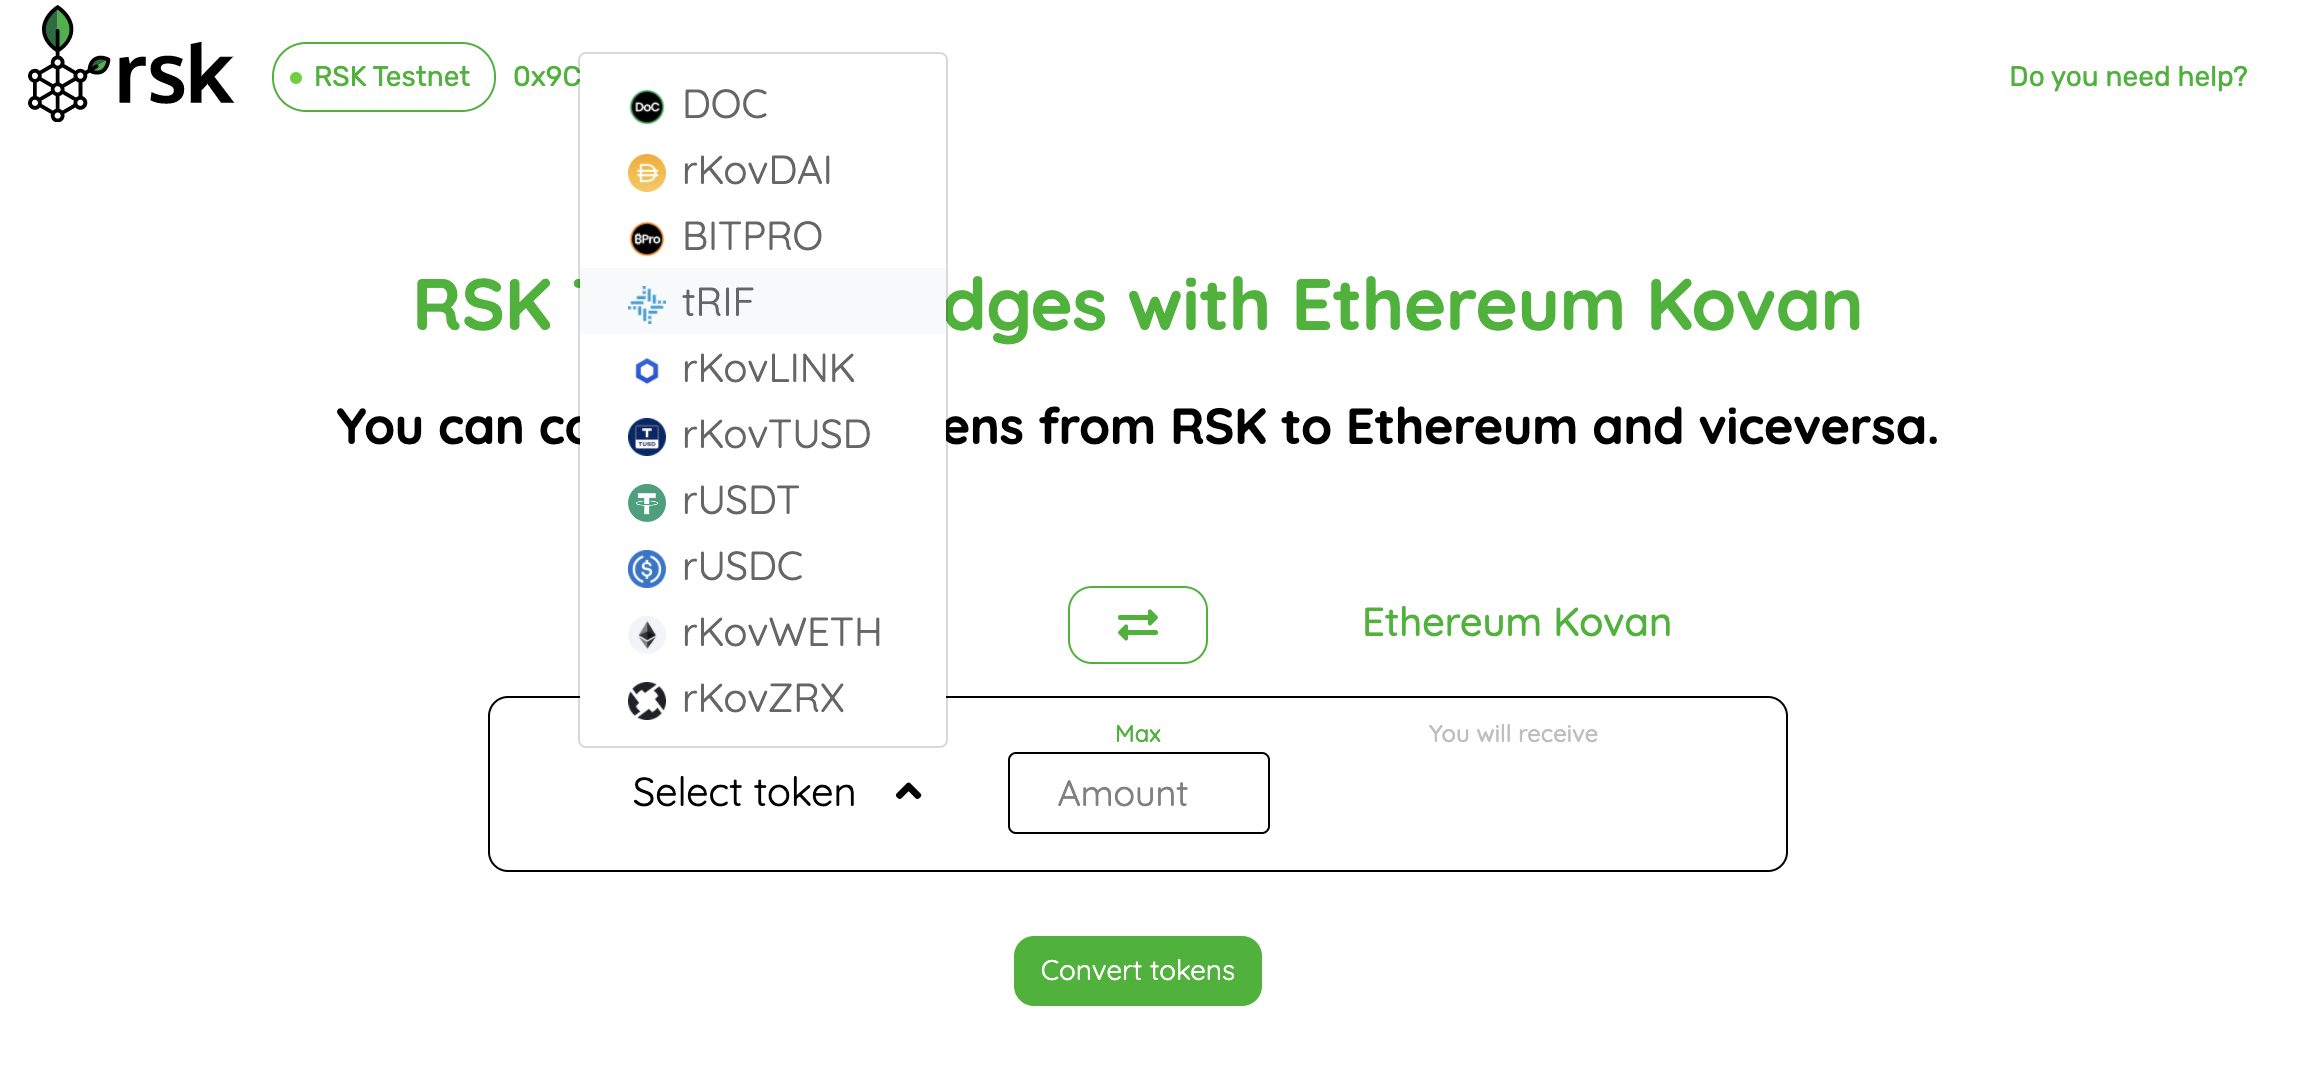
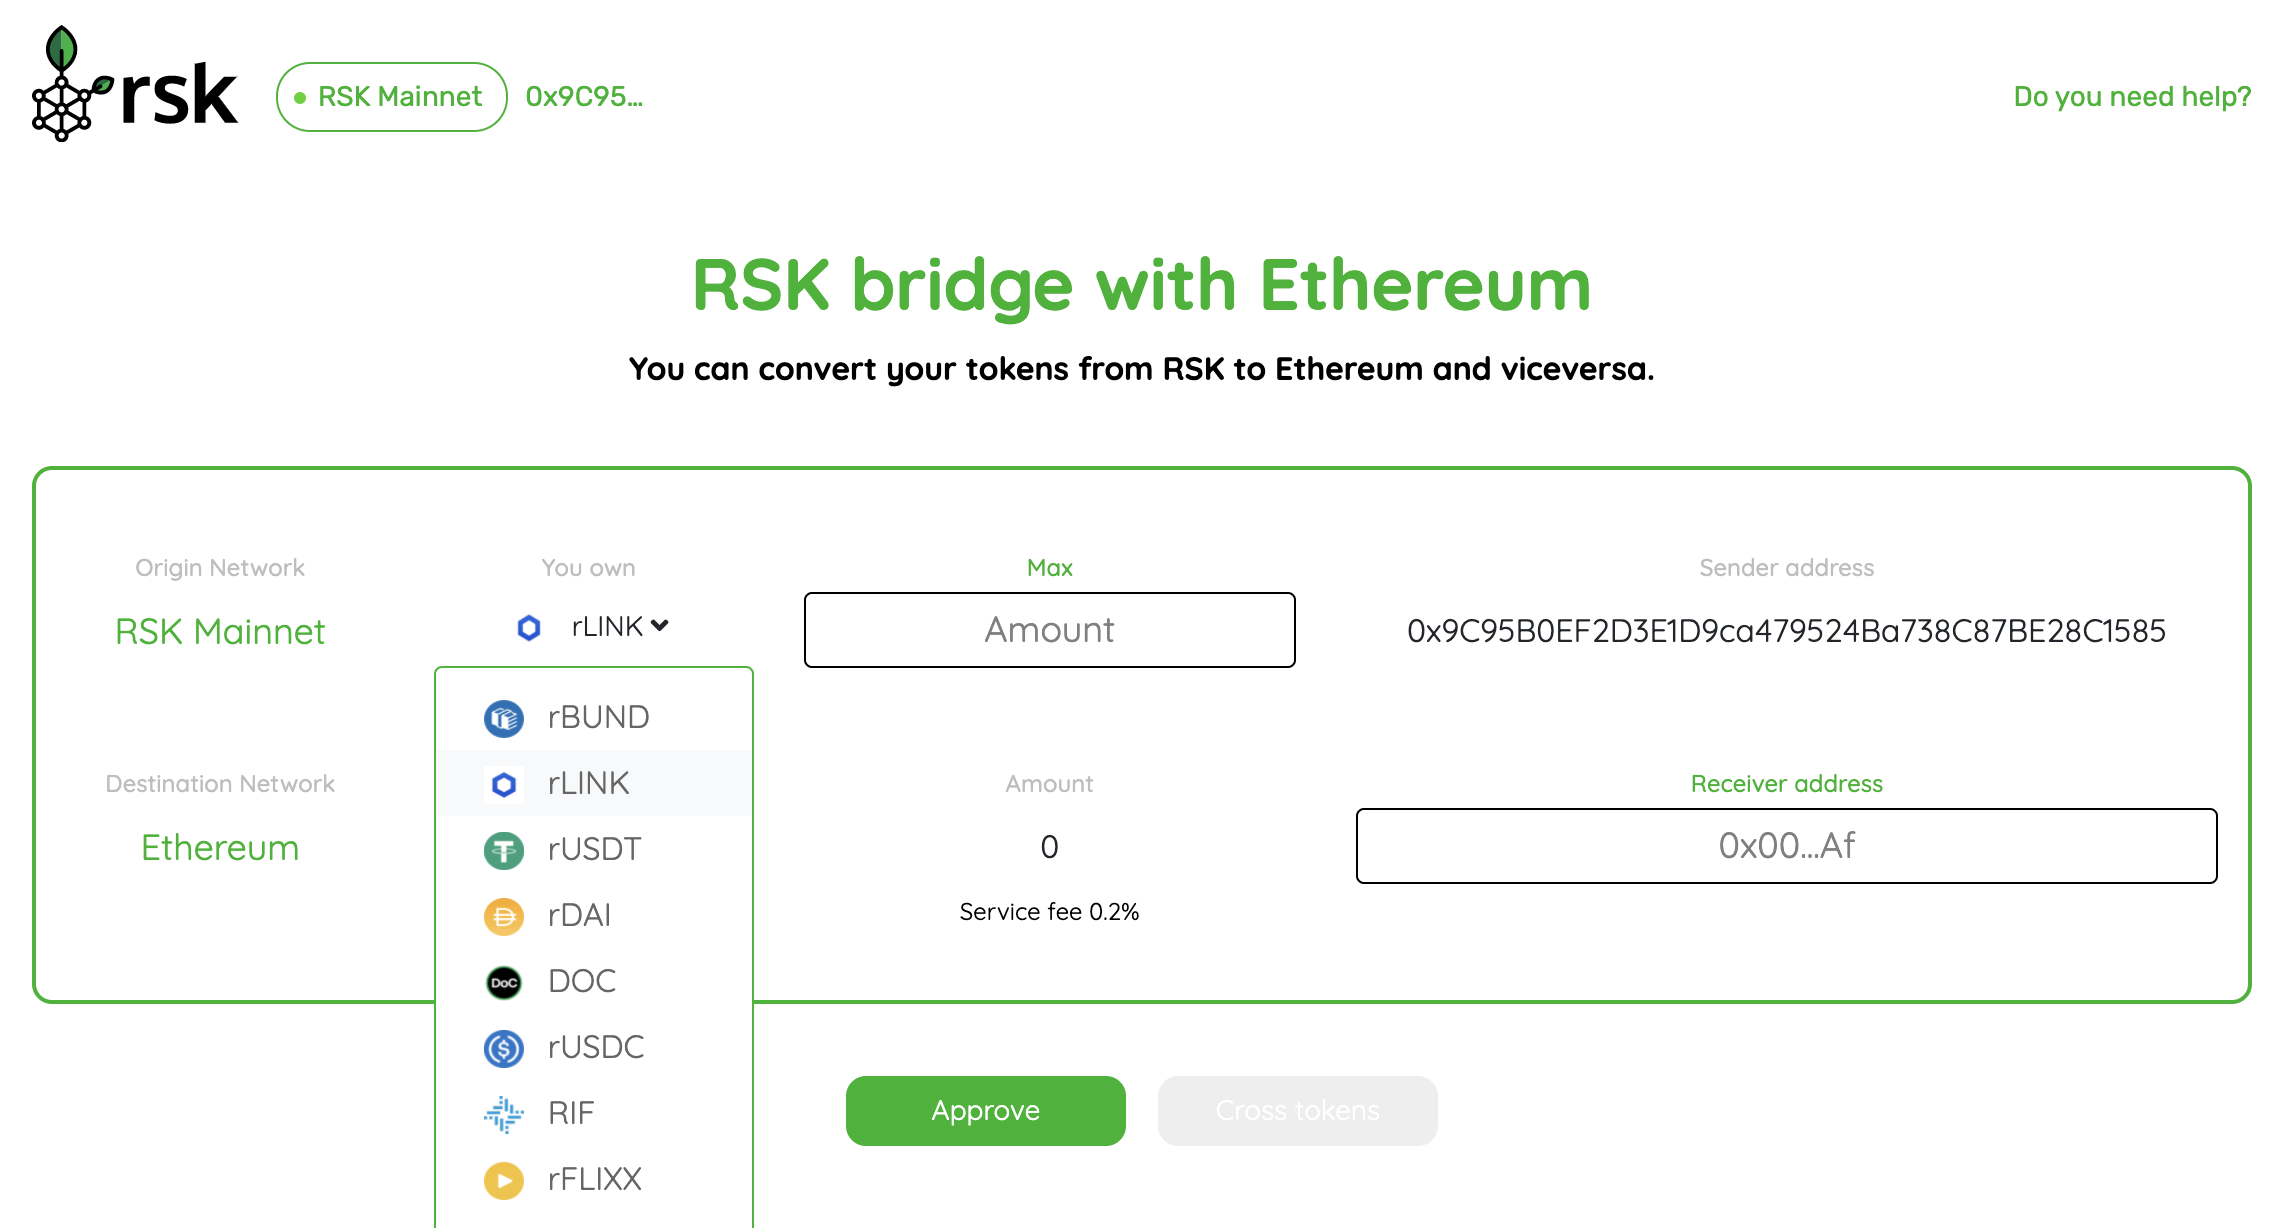
Update token bridge Docs to 2.0

diff --git a/tools/tokenbridge/dappguide.md b/tools/tokenbridge/dappguide.md
@@ -1,7 +1,7 @@
 ---
 layout: rsk
 title: Token Bridge Dapp Guide
-tags: defi, decentralized, token-bridge, tokens, quick-start, testnet, networks, dapps, tools, rsk, ethereum, smart-contracts, guides, tutorial, install, get-started, how-to
+tags: erc20, bridge, defi, decentralized, token-bridge, tokens, quick-start, testnet, networks, dapps, tools, rsk, ethereum, smart-contracts, guides, tutorial, install, get-started, how-to
 ---
 
 This Decentralized Application helps you to interact with the Token Bridge contracts, to safely cross your tokens between RSK and Ethereum networks. It is available at [tokenbridge.rsk.co](https://tokenbridge.rsk.co/) for mainnet or [testnet.tokenbridge.rsk.co](https://testnet.tokenbridge.rsk.co/) for testnet.
@@ -13,40 +13,52 @@ This guide describes the steps to transfer tokens using the Web Interface for th
 ### Prerequisites
 
 This will require the use of either Chrome or Chromium web browser, with one of the following wallet browser extensions:
-- [Nifty Wallet](https://www.poa.network/for-users/nifty-wallet) using a [custom network](/tutorials/resolve-nifty-issue/#add-rsk-as-custom-node) for RSK to keep the same addresses as Ethereum.
 - [Metamask](https://metamask.io/download.html) using a [custom network](/develop/apps/wallets/metamask/) to add the RSK network.
+- [Nifty Wallet](https://www.poa.network/for-users/nifty-wallet)
+- [Liquality Wallet](https://liquality.io/)
+- [Definat Wallet](https://defiantapp.tech/)
 
 ## Steps
 
-Start by connecting your wallet (Nifty Wallet or Metamask) and select the network of your choice, in this case we will use RSK Testnet network.
+Start by connecting your wallet and select the network of your choice, in this case we will use RSK Testnet network.
 
-<img src="/assets/img/tools/tokenbridge/dapp-image1-1.png" />
+<img src="/assets/img/tools/tokenbridge/dapp-image1-1.png" alt="token bridge connect"/>
 
 If everything is correct, you should see the following screen:
 
-<img src="/assets/img/tools/tokenbridge/dapp-image1-2.png" />
+<img src="/assets/img/tools/tokenbridge/dapp-image1-2.png" alt="token bridge token bridge connected" />
 
 Then select the token that you want to transfer. For example, tRIF token (you can obtain them from the [Rif Faucet](https://faucet.rifos.org/)).
+You will need to approve the bridge contract to use the token, this will happen only once.
 
-<img src="/assets/img/tools/tokenbridge/dapp-image2.png" />
+<img src="/assets/img/tools/tokenbridge/dapp-image2.png" alt="token bridge approve" />
 
-Once you have selected it, enter the amount you want to transfer, then click `Convert tokens` button.
+Once you have approved it, enter the amount you want to transfer, and the address that will recieve them on the other side then click `Convert tokens` button. **Important! don't use the bridge to send it to your exchange address, you won't be able to claim it**
 
 <img src="/assets/img/tools/tokenbridge/dapp-image3.png" />
 
 As soon as the process starts, you will see a loader and a disclaimer explaining that you will have to wait around 30 seconds until the transaction gets mined.
 
-<img src="/assets/img/tools/tokenbridge/dapp-image4.png" />
+<img src="/assets/img/tools/tokenbridge/dapp-image4.png" alt="token bridge wait for transaction" />
 
-A double pop-up message would be displayed, you're meant to confirm the transaction, then click **submit the transaction**. The following image gives an example of the confirmation popup. The first one is to approve the bridge contract to use the token, the second one is to notify the bridge contract to cross the tokens. These steps require around 30 seconds each for the transaction to be mined.
+You're meant to confirm the transaction, click **submit the transaction**. The following image gives an example of the confirmation popup. This will create  a transaction to call the bridge contract to cross the tokens. These steps require around 30 seconds for the transaction to be mined.
 
-<img src="/assets/img/tools/tokenbridge/dapp-image5.png" width="300"/>
+<img src="/assets/img/tools/tokenbridge/dapp-image5.png" width="300" alt="nifty wallet submit transaction" />
 
-Once all the steps are done, you have to **wait around 5 minutes in testnet or 24 hours in mainnet** for the tokens to cross. You can check the token contract on the other network by clicking on the token symbol (in this case etRIF).
-You can also check it on your wallet. To do this, change the network on your wallet (in this case we would change to Kovan) and add a custom token using the address of the crossed token, you should see the amount crossed once you wait for the corresponding crossing time.
+If everything worked correctly, you should see the transaction added to the Account Transactions list
+You have to **wait depending on the amount you want to cross, around 30 minutes for small amounts, 1 hour for medium amounts or 24 hours for large ammounts** for the tokens to cross.
 
 <img src="/assets/img/tools/tokenbridge/dapp-image6.png" />
 
-Check the transaction on the explorer to see that everything is ok.
+Once the tokens have cross **you need to claim them on the other network**. To do this, change the network on your wallet, and click on the claim button.
+
+<img src="/assets/img/tools/tokenbridge/dapp-image7.png" alt="token bridge claim button" />
+
+A confirmation popup will appear to send the claim trasnaction to the network, submit it. After the transaction get mined, you will see your transaction as Claimed
+
+<img src="/assets/img/tools/tokenbridge/dapp-image8.png" alt="token bridge claimed transaction"/>
+
+You can check the token contract on the other network by clicking on the token symbol (in this case etRIF).
+You can also check it on your wallet. To do this add a custom token on the network where the token crossed using the address mentioned before.
 
 You can transfer tokens in the other direction too, using the same method.

diff --git a/tools/tokenbridge/contractaddresses.md b/tools/tokenbridge/contractaddresses.md
@@ -1,40 +1,40 @@
 ---
 layout: rsk
 title: Addresses and Links
-tags: defi, decentralized, token-bridge, tokens, addresses, bridge, multisig, federation, powpeg, quick-start, guides, tutorial, testnet, faucet, networks, dapps, tools, rsk, ethereum, smart-contracts, install, get-started, how-to, mainnet, sidechain, contracts, wallets
+tags: address, erc20, defi, decentralized, token-bridge, tokens, addresses, bridge, multisig, federation, quick-start, guides, tutorial, testnet, faucet, networks, dapps, tools, rsk, ethereum, smart-contracts, install, get-started, how-to, mainnet, sidechain, contracts
 ---
 
-# MainNet Addresses and Links
+# Token Bridge MainNet Addresses and Links
 
 ### On RSK
 
-  - Bridge: [`0x9d11937e2179dc5270aa86a3f8143232d6da0e69`](https://blockscout.com/rsk/mainnet/address/0x9d11937E2179dC5270Aa86A3f8143232D6DA0E69)
-  - Federation: [`0xE37b6516F4FE2A27569a2751C1aD50F6340DF369`](https://blockscout.com/rsk/mainnet/address/0xE37b6516F4FE2A27569a2751C1aD50F6340DF369/transactions)
-  - AllowTokens: [`0xe4aa0f414725c9322a1a9d80d469c5e234786653`](https://blockscout.com/rsk/mainnet/address/0xe4aa0f414725c9322a1a9d80d469c5E234786653)
+  - Bridge: [`0x9d11937e2179dc5270aa86a3f8143232d6da0e69`](https://explorer.rsk.co/address/0x9d11937e2179dc5270aa86a3f8143232d6da0e69)
+  - Federation: [`0x7eCfda6072942577D36F939aD528b366b020004b`](https://explorer.rsk.co/address/0x7ecfda6072942577d36f939ad528b366b020004b)
+  - AllowTokens: [`0xcB789036894a83a008a2AA5b3c2DDe41D0605A9A`](https://explorer.rsk.co/address/0xcb789036894a83a008a2aa5b3c2dde41d0605a9a)
   - MultiSigWallet: [`0x040007b1804ad78a97f541bebed377dcb60e4138`](https://blockscout.com/rsk/mainnet/address/0x040007b1804aD78A97f541bEBED377dcb60E4138)
 
 ### On Ethereum
 
   - Bridge: [`0x12ed69359919fc775bc2674860e8fe2d2b6a7b5d`](https://etherscan.io/address/0x12ed69359919fc775bc2674860e8fe2d2b6a7b5d)
-  - Federation: [`0x479F86eCbE766073D2712EF418acEb56d5362a2B`](https://etherscan.io/address/0x479F86eCbE766073D2712EF418acEb56d5362a2B)
-  - AllowTokens: [`0xe4aa0f414725c9322a1a9d80d469c5e234786653`](https://etherscan.io/address/0xe4aa0f414725c9322a1a9d80d469c5e234786653)
+  - Federation: [`0x5e29C223d99648C88610519f96E85E627b3ABe17`](https://etherscan.io/address/0x5e29C223d99648C88610519f96E85E627b3ABe17)
+  - AllowTokens: [`0xA3FC98e0a7a979677BC14d541Be770b2cb0A15F3`](https://etherscan.io/address/0xa3fc98e0a7a979677bc14d541be770b2cb0a15f3)
   - MultiSigWallet: [`0x040007b1804ad78a97f541bebed377dcb60e4138`](https://etherscan.io/address/0x040007b1804ad78a97f541bebed377dcb60e4138)
 
 # Testnet Addresses and Links
 
 ### On RSK Testnet
 
-  - Bridge_v1: [`0x684a8a976635fb7ad74a0134ace990a6a0fcce84`](https://explorer.testnet.rsk.co/address/0x684a8a976635fb7ad74a0134ace990a6a0fcce84)
-  - Federation_v1: [`0x925606edc5863c079b712daed560c31eff8335b9`](https://explorer.testnet.rsk.co/address/0x925606edc5863c079b712daed560c31eff8335b9)
-  - AllowTokens: [`0x952b706a9ab5fd2d3b36205648ed7852676afbe7`](https://explorer.testnet.rsk.co/address/0x952b706a9ab5fd2d3b36205648ed7852676afbe7)
+  - Bridge: [`0x684a8a976635fb7ad74a0134ace990a6a0fcce84`](https://explorer.testnet.rsk.co/address/0x684a8a976635fb7ad74a0134ace990a6a0fcce84)
+  - Federation: [`0x5d663981d930E8eC108280B9d80885658148AB0F`](https://explorer.testnet.rsk.co/address/0x5d663981d930e8ec108280b9d80885658148ab0f)
+  - AllowTokens: [`0xC65Bf0Ae75DC1A5Fc9e6f4215125692A548C773a`](https://explorer.testnet.rsk.co/address/0xc65bf0ae75dc1a5fc9e6f4215125692a548c773a)
   - MultiSigWallet: [`0x88f6b2bc66f4c31a3669b9b1359524abf79cfc4a`](https://explorer.testnet.rsk.co/address/0x88f6b2bc66f4c31a3669b9b1359524abf79cfc4a)
 
 
 ### On Kovan
 
-  - Bridge_v1: [`0x12ed69359919fc775bc2674860e8fe2d2b6a7b5d`](https://kovan.etherscan.io/address/0x12ed69359919fc775bc2674860e8fe2d2b6a7b5d)
-  - Federation_v1: [`0xda2295255633c26eaadbace5269b6e8bd2648ca0`](https://kovan.etherscan.io/address/0xda2295255633c26eaadbace5269b6e8bd2648ca0)
-  - AllowTokens: [`0xe4aa0f414725c9322a1a9d80d469c5e234786653`](https://kovan.etherscan.io/address/0xe4aa0f414725c9322a1a9d80d469c5e234786653)
+  - Bridge: [`0x12ed69359919fc775bc2674860e8fe2d2b6a7b5d`](https://kovan.etherscan.io/address/0x12ed69359919fc775bc2674860e8fe2d2b6a7b5d)
+  - Federation: [`0xa347438BC288f56Cb6083A79133e70DD2d1f6c2d`](https://kovan.etherscan.io/address/0xa347438BC288f56Cb6083A79133e70DD2d1f6c2d)
+  - AllowTokens: [`0x92BF86334583909B60F9b798A9Dd7Debd899fEc4`](https://kovan.etherscan.io/address/0x92BF86334583909B60F9b798A9Dd7Debd899fEc4)
   - MultiSigWallet: [`0x040007b1804ad78a97f541bebed377dcb60e4138`](https://kovan.etherscan.io/address/0x040007b1804ad78a97f541bebed377dcb60e4138)
 
 ## List of ABIs

diff --git a/tools/tokenbridge/faq.md b/tools/tokenbridge/faq.md
@@ -1,8 +1,12 @@
 ---
 layout: rsk
 title: Token Bridge FAQ
-tags: faqs, defi, rbtc, decentralized, token-bridge, tokens, quick-start, guides, tutorial, testnet, networks, dapps, tools, rsk, ethereum, smart-contracts, install, get-started, how-to, mainnet, testnet, sidechain, contracts, wallets
+tags: erc20, bridge, faqs, defi, rbtc, decentralized, token-bridge, tokens, quick-start, guides, tutorial, testnet, networks, dapps, tools, rsk, ethereum, smart-contracts, install, get-started, how-to, mainnet, testnet, sidechain, contracts, wallets
 ---
+
+## Troubleshooting
+
+If you need guide troublehsooting an issue go to [https://developers.rsk.co/kb/tokenbridge-troubleshooting/](https://developers.rsk.co/kb/tokenbridge-troubleshooting/)
 
 ## What is the Token Bridge?
 
@@ -47,11 +51,7 @@ Upon receiving your Side Tokens, you no longer own your original tokens. The mom
 
 There is no limit on the total. Hypothetically, the entire circulating supply can be bridged, though this is unlikely happen as there will be strong use cases to use the tokens on either network.
 
-However, there are daily quotas:
-
-- Daily limit: 5,000,000 tokens
-- Maximum per tx: 5,000,000 tokens
-- Minimum per tx: 1 token
+However, there is a minimum and maximum amount per transaction and daily quotas. You can see them on [https://tokenbridge.rsk.co](https://tokenbridge.rsk.co/?#token-list)
 
 ## Can any token be bridged over?
 
@@ -63,8 +63,12 @@ There is a 0.2% fee charge when crossing the tokens, this fee goes to the valida
 
 ## How many confirmations are required to convert the original tokens to Side tokens and vice-versa?
 
-- 2880 confirmations are necessary on the RSK Mainnet, and 5760 confirmations on the Ethereum Mainnet.
-- 10 confirmations are necessary on the RSK Testnet, and 10 confirmations on the Ethereum Kovan Testnet.
+Confirmations depends on the amount being crossed:
+- small amonuts needs 60 confirmations on the RSK Mainnet, and 120 confirmations on the Ethereum Mainnet
+- medium amonuts needs 120 confirmations on the RSK Mainnet, and 240 confirmations on the Ethereum Mainnet
+- large amounts needs 2880 confirmations on the RSK Mainnet, and 5760 confirmations on the Ethereum Mainnet.
+
+You can see them on [https://tokenbridge.rsk.co](https://tokenbridge.rsk.co/?#token-list)
 
 ## How does the Token Bridge work?
 

diff --git a/tools/tokenbridge/index.md b/tools/tokenbridge/index.md
@@ -1,7 +1,7 @@
 ---
 layout: rsk
 title: RSK <-> ETH Token Bridge
-tags: faqs, defi, decentralized, token-bridge, tokens, quick-start, guides, tutorial, testnet, networks, dapps, tools, rsk, ethereum, eth, rbtc, smart-contracts, install, get-started, how-to, mainnet, testnet, sidechain, contracts, wallets, swaps
+tags: erc20, bridge, faqs, defi, decentralized, token-bridge, tokens, quick-start, guides, tutorial, testnet, networks, dapps, tools, rsk, ethereum, eth, rbtc, smart-contracts, install, get-started, how-to, mainnet, testnet, sidechain, contracts, swaps
 ---
 
 Ethereum/RSK Bridge that allows to move ERC20 tokens between one chain and the other.
@@ -45,3 +45,8 @@ The ABI to interact with the contracts are in the ['abis folder'](https://github
 
 There is a federation in charge of notifying the events that have happened in the bridge between one chain and the other. The federation is composed of the creators of the token contracts who want to enable their token for crossing.
 See in the token bridge repository the ['federator folder'](https://github.com/rsksmart/tokenbridge/tree/master/federator) for more information.
+
+
+## Troubleshooting
+
+If you need guide troublehsooting an issue go to [https://developers.rsk.co/kb/tokenbridge-troubleshooting/](https://developers.rsk.co/kb/tokenbridge-troubleshooting/)

diff --git a/tools/tokenbridge/usingmycrypto.md b/tools/tokenbridge/usingmycrypto.md
@@ -1,7 +1,7 @@
 ---
 layout: rsk
 title: Interaction guide using MyCrypto
-tags: mycrypto, defi, node, rbtc, ganache, decentralized, token-bridge, tokens, quick-start, guides, tutorial, testnet, networks, dapps, tools, rsk, ethereum, smart-contracts, install, get-started, how-to, mainnet, testnet, sidechain, contracts, wallets
+tags: erc20, bridge, mycrypto, defi, node, rbtc, ganache, decentralized, token-bridge, tokens, quick-start, guides, tutorial, testnet, networks, dapps, tools, rsk, ethereum, smart-contracts, install, get-started, how-to, mainnet, testnet, sidechain, contracts
 ---
 
 This guide describes the necessary steps to perform a token transfer between two blockchain networks, which we will refer to to as **Mainchain** and **Sidechain**, through interaction with special contracts that make up a subsystem called **TokenBridge**.
